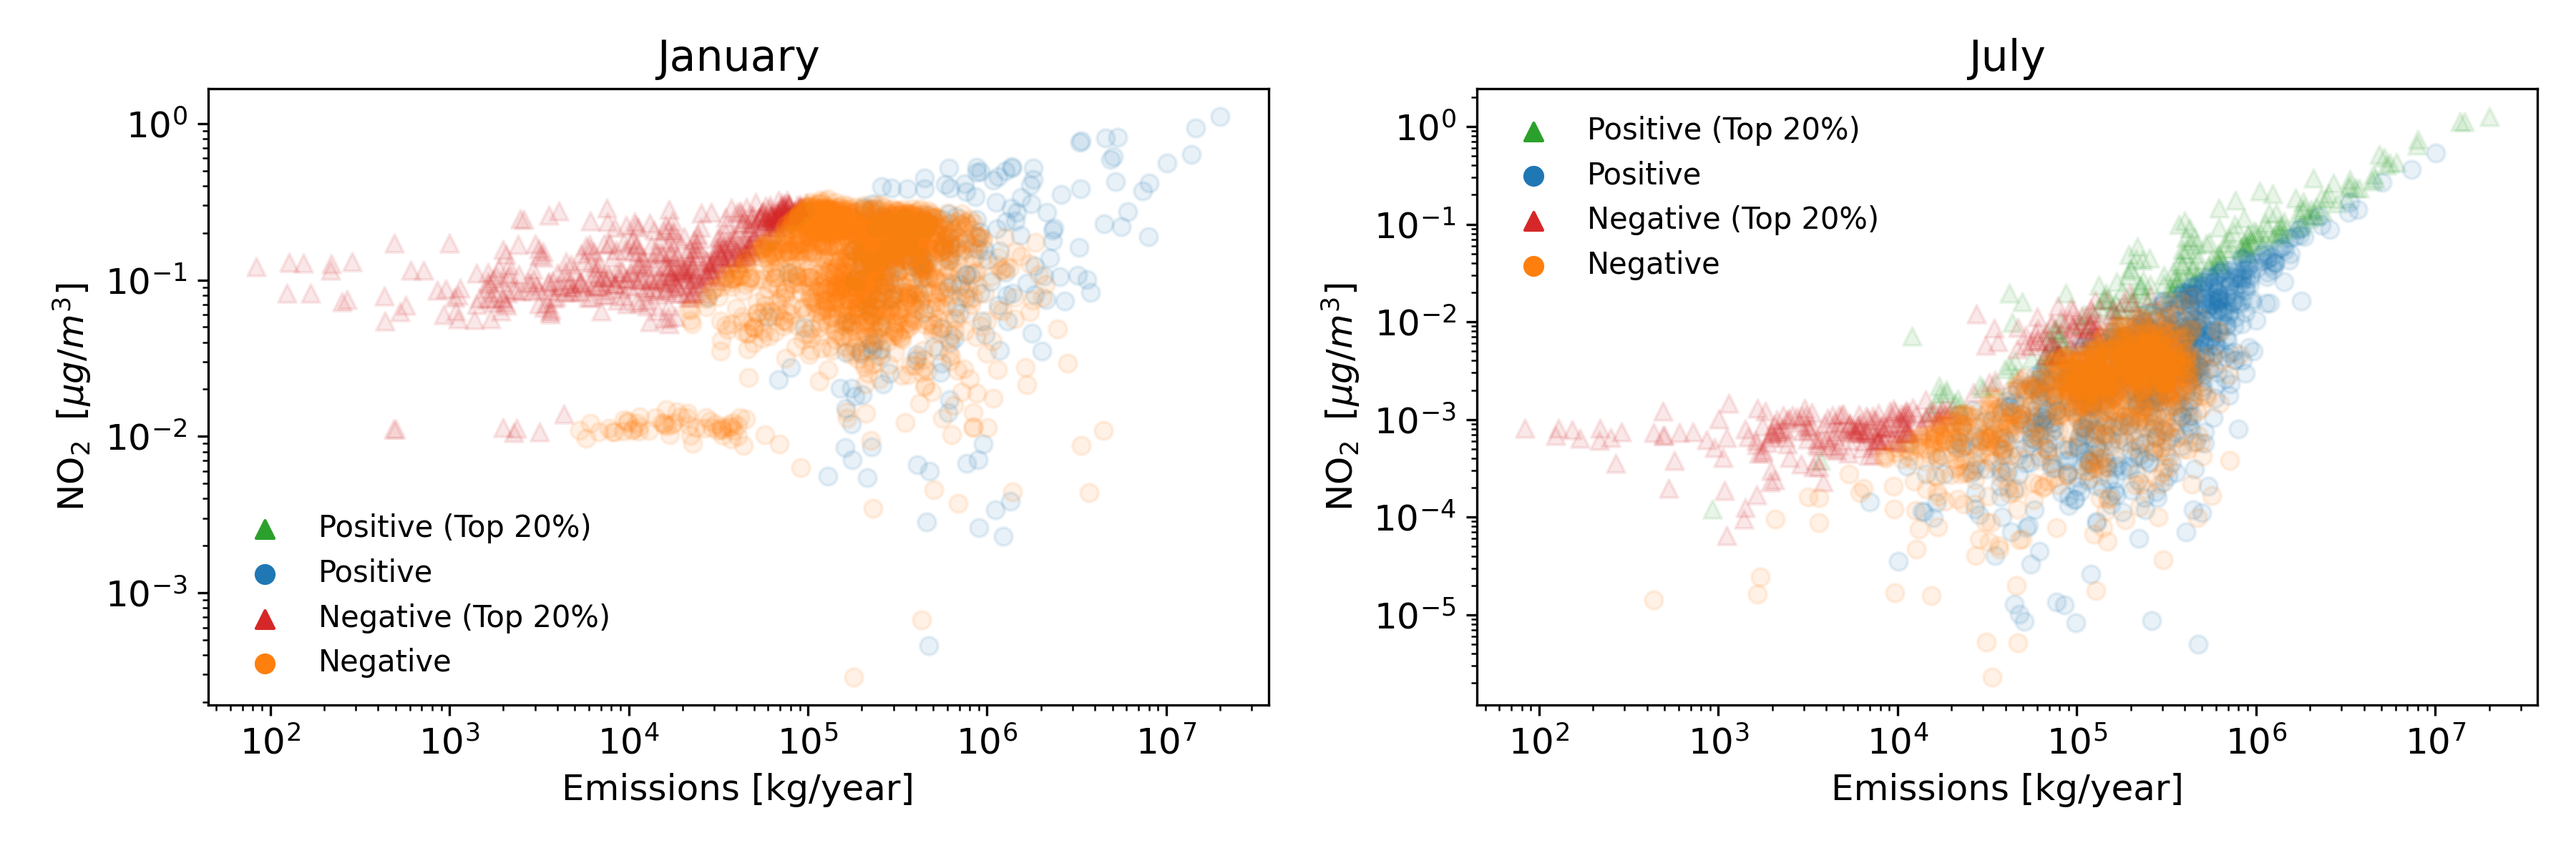
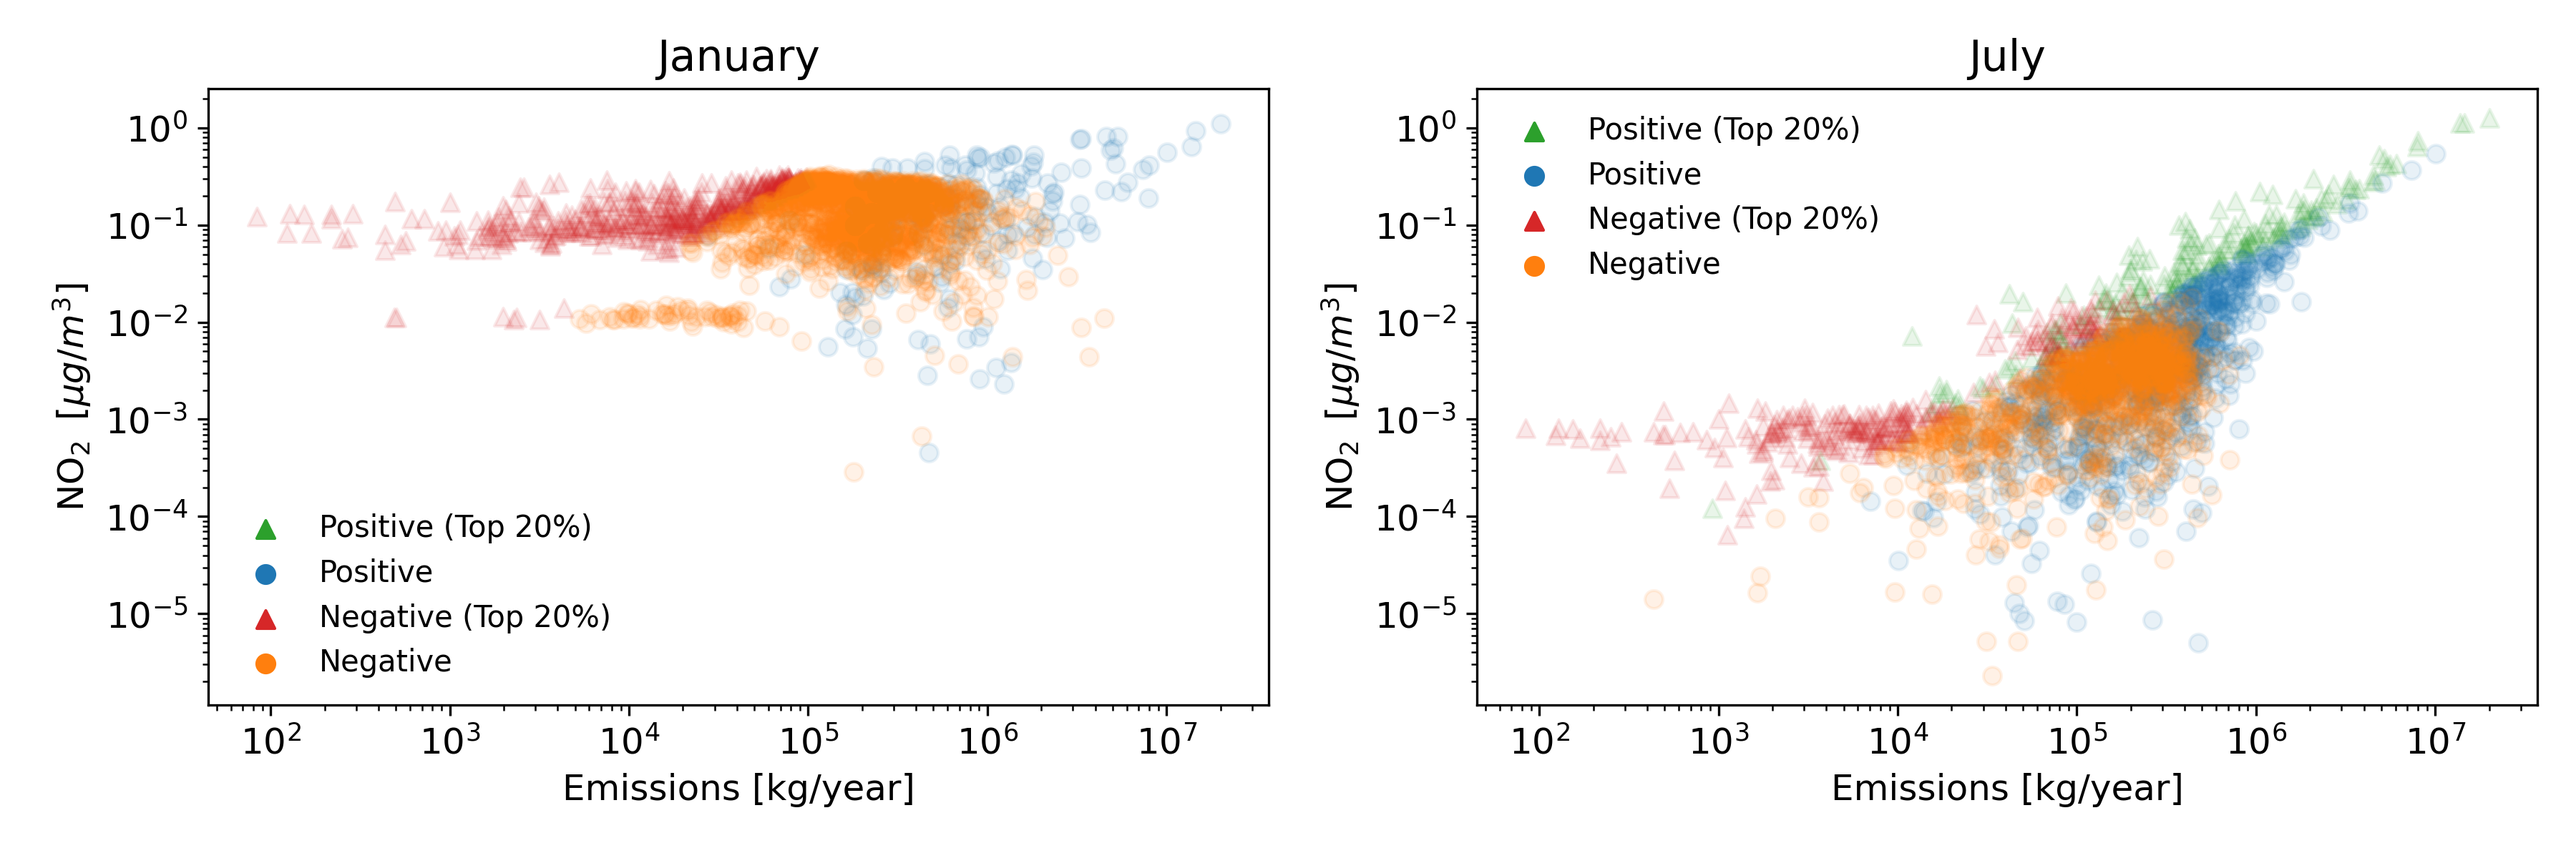
unified axes of scatterplots

diff --git a/division_processing/scatter_log_europe.py b/division_processing/scatter_log_europe.py
@@ -20,6 +20,10 @@ font = {'family' : 'DejaVu Sans',
 
 matplotlib.rc('font', **font)
 
+def safe_nanmin(arr):
+    return np.nanmin(arr) if arr.size > 0 and not np.all(np.isnan(arr)) else 1e9
+def safe_nanmax(arr):
+    return np.nanmax(arr) if arr.size > 0 and not np.all(np.isnan(arr)) else 0
 
 # Load the 'admin_0_countries' shapefile (countries of the world)
 shpfilename = natural_earth(resolution='10m', category='cultural', name='admin_0_countries')
@@ -122,7 +126,18 @@ for type_, vars in types.items():
             emittants_lst.append(sum_emittant.where(eu_mask)) 
 
             measures_lst.append(measure.where(eu_mask))
-            
+
+        top_sens_pollutants_list = []
+        top_neg_sens_pollutants_list = []
+        top_sens_emittants_list = []
+        top_neg_sens_emittants_list = []
+
+        peasant_sens_pollutants_list = []
+        peasant_neg_sens_pollutants_list = []
+        peasant_sens_emittants_list = []
+        peasant_neg_sens_emittants_list =[]
+        y_min = 1e9
+        y_max = 0
         for i, month in enumerate(months):
             np.set_printoptions(threshold=np.inf)
             # Step 1: Get absolute measures and compute percentile threshold
@@ -145,11 +160,11 @@ for type_, vars in types.items():
             positive_mask = topx_measures > 0
             negative_mask = topx_measures < 0
 
-            top_sens_pollutants = topx_pollutants[positive_mask]
-            top_neg_sens_pollutants = np.abs(topx_pollutants[negative_mask])
+            top_sens_pollutants_list.append(topx_pollutants[positive_mask])
+            top_neg_sens_pollutants_list.append(np.abs(topx_pollutants[negative_mask]))
 
-            top_sens_emittants = topx_emittants[positive_mask]
-            top_neg_sens_emittants = np.abs(topx_emittants[negative_mask])
+            top_sens_emittants_list.append(topx_emittants[positive_mask])
+            top_neg_sens_emittants_list.append(np.abs(topx_emittants[negative_mask]))
 
             # Optional: If you also want the non-top (peasant) group
             non_topx_mask = ~topx_mask & valid_mask
@@ -160,22 +175,27 @@ for type_, vars in types.items():
             peasant_pos_mask = non_topx_measures > 0
             peasant_neg_mask = non_topx_measures < 0
 
-            peasant_sens_pollutants = non_topx_pollutants[peasant_pos_mask]
-            peasant_neg_sens_pollutants = np.abs(non_topx_pollutants[peasant_neg_mask])
+            peasant_sens_pollutants_list.append(non_topx_pollutants[peasant_pos_mask])
+            peasant_neg_sens_pollutants_list.append(np.abs(non_topx_pollutants[peasant_neg_mask]))
 
-            peasant_sens_emittants = non_topx_emittants[peasant_pos_mask]
-            peasant_neg_sens_emittants = np.abs(non_topx_emittants[peasant_neg_mask])
-
+            peasant_sens_emittants_list.append(non_topx_emittants[peasant_pos_mask])
+            peasant_neg_sens_emittants_list.append(np.abs(non_topx_emittants[peasant_neg_mask]))
+        
+            y_min = min(safe_nanmin(top_sens_pollutants_list[i]), safe_nanmin(top_neg_sens_pollutants_list[i]), safe_nanmin(peasant_sens_pollutants_list[i]), safe_nanmin(peasant_neg_sens_pollutants_list[i]), y_min)
+            y_max = max(safe_nanmax(top_sens_pollutants_list[i]), safe_nanmax(top_neg_sens_pollutants_list[i]), safe_nanmax(peasant_sens_pollutants_list[i]), safe_nanmax(peasant_neg_sens_pollutants_list[i]), y_max)
+        
+        for i, month in enumerate(months):
             # Plot
-            ax[i].scatter(top_sens_emittants, top_sens_pollutants, color='tab:green', alpha=0.1, label= f"Positive ({ifpercen})", marker = "^")
-            ax[i].scatter(peasant_sens_emittants, peasant_sens_pollutants, color='tab:blue', alpha=0.1, label= "Positive")
-            ax[i].scatter(top_neg_sens_emittants, top_neg_sens_pollutants, color='tab:red', alpha=0.1, label= f"Negative ({ifpercen})", marker="^")
-            ax[i].scatter(peasant_neg_sens_emittants, peasant_neg_sens_pollutants, color='tab:orange', alpha=0.1, label= "Negative")
+            ax[i].scatter(top_sens_emittants_list[i], top_sens_pollutants_list[i], color='tab:green', alpha=0.1, label= f"Positive ({ifpercen})", marker = "^")
+            ax[i].scatter(peasant_sens_emittants_list[i], peasant_sens_pollutants_list[i], color='tab:blue', alpha=0.1, label= "Positive")
+            ax[i].scatter(top_neg_sens_emittants_list[i], top_neg_sens_pollutants_list[i], color='tab:red', alpha=0.1, label= f"Negative ({ifpercen})", marker="^")
+            ax[i].scatter(peasant_neg_sens_emittants_list[i], peasant_neg_sens_pollutants_list[i], color='tab:orange', alpha=0.1, label= "Negative")
             # ax[i].set_title(f"{var}, monthly average {month}", fontsize=14)
             ax[i].set_xlabel(r"Emissions [kg/year]")
             ax[i].set_ylabel(name + r' [$\mu g /  m^3$]')
             ax[i].set_xscale('log')
             ax[i].set_yscale('log')
+            ax[i].set_ylim(y_min*0.5, y_max*2)
             ax[i].set_title(f"{monthname[i]}")
             legend = ax[i].legend(frameon=False, fontsize=10)
             for legend_handle in legend.legend_handles:
